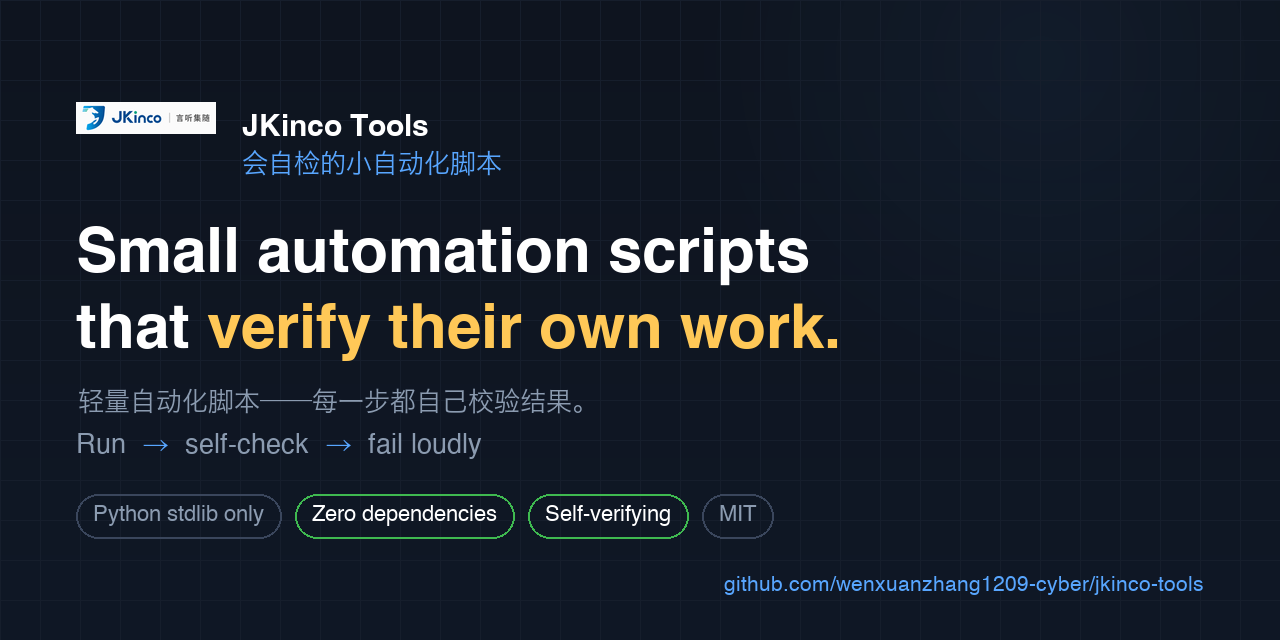
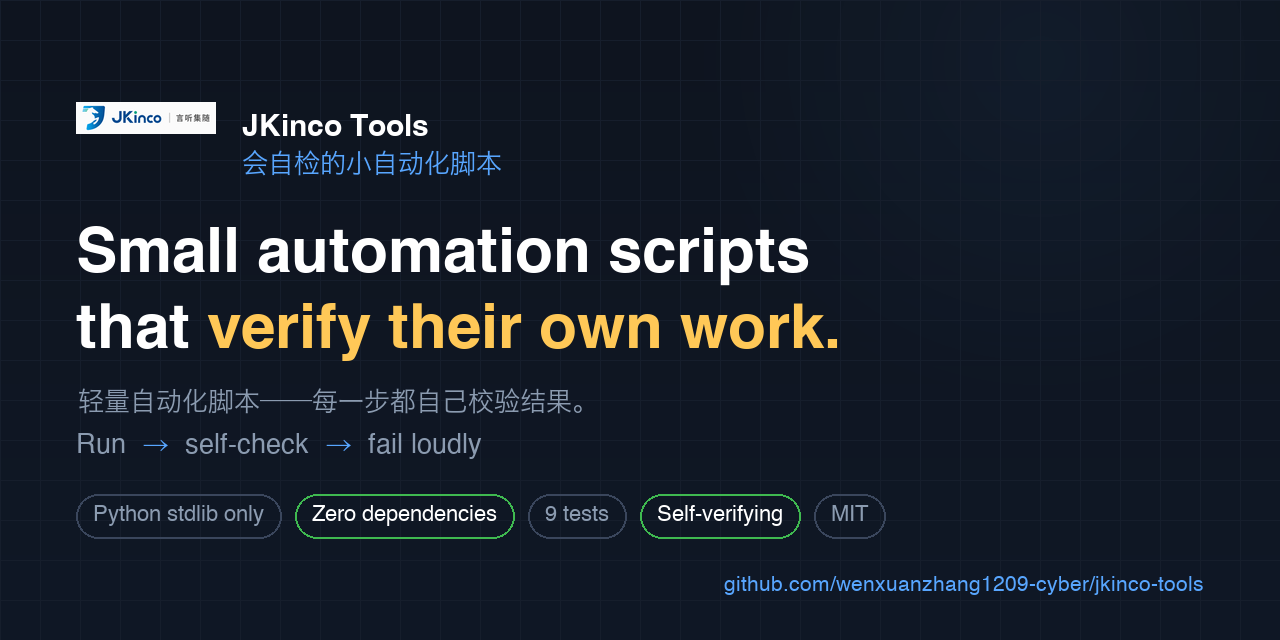
「会自检的脚本」现在自己也被检了
这个仓库的说明是 "Small automation scripts that verify their own work"，
而它的 CI 原先只有一句 `python -m py_compile import-upstream.py` ——
一个连 import 都不会执行的检查。语法正确和「校验逻辑是对的」之间
隔着整个 README。

校验逻辑是这个工具的全部价值。README 写着每个 blob 落盘前都用 Git 的
SHA-1 校验过，「A mismatch is a failure, not a warning」，最近一次
6407 个文件零失败。如果那个哈希算错了，这些话就什么都不是 ——
而且不会有任何症状：普通 sha1 也是 40 位十六进制，看起来完全正常，
只是和 GitHub 给的 SHA 永远对不上。

所以拿 git 自己当裁判：同样的内容让 `git hash-object --stdin` 算一遍，
和 blob_sha 比。八种输入：空、无结尾换行、中文 UTF-8、含 NUL 的二进制、
内容里内嵌 "blob 5\0" 前缀（拼接写错会在这里露馅）、10 万字节、CRLF。
用另一个独立实现来验，比自己写一遍期望值可靠得多。

顺带修一个别人一 clone 就会撞上的问题：PROXY 写死成
http://127.0.0.1:7897 —— 那是我本机代理的端口。别人跑起来每个请求都会
连到一个不存在的本地端口，而错误信息是「连接被拒绝」，看不出跟代理
有关。改成 UPSTREAM_PROXY 环境变量，默认直连。

（这里有个坑：不设代理时不能传空的 ProxyHandler。空的不等于「不用
代理」，等于「屏蔽所有代理」，连系统的 http_proxy 也会被忽略。）

测试只用标准库 —— 为了跑测试去装 pytest 会让 README 里
「zero dependencies」那句话变虚。

九个测试。用三种变异验过它们真的会失败：去掉 blob 头 → 10 处失败；
把代理写死回去 → 1 处；去掉执行位 → 1 处。

Changed region(s): [[0.4062, 0.75, 0.6875, 0.8438]]

diff --git a/tests/test_import_upstream.py b/tests/test_import_upstream.py
@@ -1,0 +1,136 @@
+"""import-upstream.py 的测试。
+
+这个仓库的说明是「会自检的小脚本」，而它的 CI 原先只有一句
+`python -m py_compile import-upstream.py` —— 一个连 import 都不会执行的
+检查。语法正确和「校验逻辑是对的」之间隔着整个 README。
+
+校验逻辑是这个工具的全部价值：它宣称每个 blob 落盘前都用 Git 的 SHA-1
+校验过，「A mismatch is a failure, not a warning」。如果那个哈希算错了，
+6407 个文件、零失败这句话就什么都不是 —— 而且不会有任何症状。
+
+所以这里拿 **git 自己** 当裁判：同样的内容让 `git hash-object` 算一遍，
+和 blob_sha 的结果比。用另一个独立实现来验，比自己写一遍期望值可靠得多。
+
+只用标准库。这个仓库的卖点之一就是零依赖，为了跑测试去装 pytest
+会让那句话变虚。
+"""
+from __future__ import annotations
+
+import importlib.util
+import os
+import subprocess
+import sys
+import tempfile
+import unittest
+from pathlib import Path
+
+ROOT = Path(__file__).resolve().parent.parent
+
+
+def load_script():
+    spec = importlib.util.spec_from_file_location(
+        "import_upstream", ROOT / "import-upstream.py")
+    module = importlib.util.module_from_spec(spec)
+    sys.modules["import_upstream"] = module
+    spec.loader.exec_module(module)
+    return module
+
+
+script = load_script()
+
+
+def git_hash_object(data: bytes) -> str:
+    """让 git 自己算一遍，作为独立裁判。"""
+    result = subprocess.run(
+        ["git", "hash-object", "--stdin"],
+        input=data, capture_output=True, check=True)
+    return result.stdout.decode().strip()
+
+
+class BlobShaMatchesGit(unittest.TestCase):
+    """blob_sha 必须和 git hash-object 逐字节一致。"""
+
+    CASES = {
+        "空文件": b"",
+        "一行 ASCII": b"hello\n",
+        "没有结尾换行": b"hello",
+        "中文 UTF-8": "第一行\n第二行\n".encode("utf-8"),
+        "含 NUL 的二进制": b"\x00\x01\x02\xff\xfe",
+        "内嵌 blob 头的内容": b"blob 5\x00hello",   # 前缀拼接写错就会在这里露馅
+        "长内容": b"x" * 100_000,
+        "CRLF": b"line1\r\nline2\r\n",
+    }
+
+    def test_every_case_matches(self):
+        for label, data in self.CASES.items():
+            with self.subTest(label):
+                self.assertEqual(script.blob_sha(data), git_hash_object(data))
+
+    def test_the_known_empty_blob(self):
+        """空 blob 的 SHA 是 Git 里最出名的那个常量，写死一次做双保险。"""
+        self.assertEqual(script.blob_sha(b""),
+                         "e69de29bb2d1d6434b8b29ae775ad8c2e48c5391")
+
+    def test_size_prefix_actually_participates(self):
+        """漏掉 `blob <size>\\0` 前缀的话，结果会退化成普通 sha1。
+
+        这是最容易写错、又最不容易被发现的一处：普通 sha1 也是 40 位十六进制，
+        看起来完全正常，只是和 GitHub 给的 SHA 永远对不上。
+        """
+        import hashlib
+
+        data = b"hello\n"
+        self.assertNotEqual(script.blob_sha(data), hashlib.sha1(data).hexdigest())
+
+    def test_a_single_byte_change_changes_the_hash(self):
+        """截断或损坏必须被发现——这正是这个工具存在的理由。"""
+        self.assertNotEqual(script.blob_sha(b"hello\n"), script.blob_sha(b"hellp\n"))
+        # CDN 给出截断响应是真实发生过的场景
+        full = b"x" * 1000
+        self.assertNotEqual(script.blob_sha(full), script.blob_sha(full[:999]))
+
+
+class WriteMode(unittest.TestCase):
+    def test_executable_bit_is_set_for_100755(self):
+        with tempfile.TemporaryDirectory() as tmp:
+            dest = os.path.join(tmp, "run.sh")
+            script.write_mode(dest, b"#!/bin/sh\n", "100755")
+            self.assertTrue(os.access(dest, os.X_OK), "100755 的文件必须可执行")
+
+    def test_plain_file_is_not_made_executable(self):
+        with tempfile.TemporaryDirectory() as tmp:
+            dest = os.path.join(tmp, "notes.txt")
+            script.write_mode(dest, b"hello\n", "100644")
+            self.assertFalse(os.access(dest, os.X_OK), "普通文件不该带执行位")
+
+    def test_contents_are_written_verbatim(self):
+        with tempfile.TemporaryDirectory() as tmp:
+            dest = os.path.join(tmp, "bin")
+            data = b"\x00\x01\xff\n"
+            script.write_mode(dest, data, "100644")
+            self.assertEqual(Path(dest).read_bytes(), data)
+
+
+class Configuration(unittest.TestCase):
+    """别人 clone 下来就能跑，不该被我本机的设置绊住。"""
+
+    def test_proxy_is_not_hardcoded(self):
+        self.assertEqual(
+            script.PROXY, os.environ.get("UPSTREAM_PROXY", ""),
+            "代理必须来自环境变量。写死成本机端口的话，别人跑起来每个请求都会"
+            "连到一个不存在的本地端口，而错误信息里看不出跟代理有关。",
+        )
+
+    def test_no_proxy_means_respect_the_environment(self):
+        """不设代理时要用默认 opener。
+
+        空的 ProxyHandler 不等于「不用代理」，它等于「屏蔽所有代理」，
+        连系统的 http_proxy 也会被忽略。
+        """
+        opener = script.proxy_opener()
+        proxies = [h for h in opener.handlers if type(h).__name__ == "ProxyHandler"]
+        self.assertTrue(proxies, "应当保留默认的 ProxyHandler 以尊重系统环境变量")
+
+
+if __name__ == "__main__":
+    unittest.main(verbosity=2)

diff --git a/import-upstream.py b/import-upstream.py
@@ -14,15 +14,27 @@ import urllib.parse
 import urllib.request
 
 ROOT = os.path.abspath(os.path.dirname(__file__))
-TREE_JSON = "/tmp/opencode-tree.json"
-OWNER = "anomalyco"
-REPO = "opencode"
-BRANCH = "dev"
-PROXY = "http://127.0.0.1:7897"
+TREE_JSON = os.environ.get("TREE_JSON", "/tmp/opencode-tree.json")
+OWNER = os.environ.get("UPSTREAM_OWNER", "anomalyco")
+REPO = os.environ.get("UPSTREAM_REPO", "opencode")
+BRANCH = os.environ.get("UPSTREAM_BRANCH", "dev")
+
+# 代理默认关闭。这里原先写死成 http://127.0.0.1:7897 —— 那是我本机
+# 那个代理的端口，别人 clone 下来跑，每一次请求都会连到一个不存在的
+# 本地端口上，而失败信息是「连接被拒绝」，看不出跟代理有关。
+#
+# 需要走代理时设 UPSTREAM_PROXY；不设就直连，urllib 仍会尊重系统的
+# http_proxy/https_proxy 环境变量。
+PROXY = os.environ.get("UPSTREAM_PROXY", "")
 UA = {"User-Agent": "jkinco-upstream-import/0.1"}
 
 
 def proxy_opener():
+    if not PROXY:
+        # 空的 ProxyHandler 不等于「不用代理」——它等于「不要用任何代理」，
+        # 会把系统的 http_proxy 也一起屏蔽掉。想直连又尊重系统设置，
+        # 就得用默认 opener。
+        return urllib.request.build_opener()
     handler = urllib.request.ProxyHandler({"http": PROXY, "https": PROXY})
     return urllib.request.build_opener(handler)
 

diff --git a/scripts/build_social_preview.py b/scripts/build_social_preview.py
@@ -148,8 +148,9 @@ SPECS: dict[str, dict] = {
         "cjk_line": "轻量自动化脚本——每一步都自己校验结果。",
         "flow": ["Run", "self-check", "fail loudly"],
         # requirements.txt 里 0 行非注释依赖：只用标准库
+        # 9: python -m unittest discover -s tests，CI 会核对 README 徽章
         "chips": [("Python stdlib only", False), ("Zero dependencies", True),
-                  ("Self-verifying", True), ("MIT", False)],
+                  ("9 tests", False), ("Self-verifying", True), ("MIT", False)],
     },
 }
 

diff --git a/README.md b/README.md
@@ -2,6 +2,7 @@
   <a href="https://github.com/wenxuanzhang1209-cyber/jkinco-tools/actions/workflows/ci.yml"><img src="https://github.com/wenxuanzhang1209-cyber/jkinco-tools/actions/workflows/ci.yml/badge.svg" alt="CI" /></a>
   <img src="https://img.shields.io/github/license/wenxuanzhang1209-cyber/jkinco-tools?style=flat-square" alt="License" />
   <img src="https://img.shields.io/badge/Python-3776AB?style=flat-square&logo=python&logoColor=white" alt="Python" />
+  <img src="https://img.shields.io/badge/tests-9%20passing-3fb950?style=flat-square" alt="Tests" />
   <img src="https://img.shields.io/badge/dependencies-none-3fb950?style=flat-square" alt="No dependencies" />
 </p>
 
